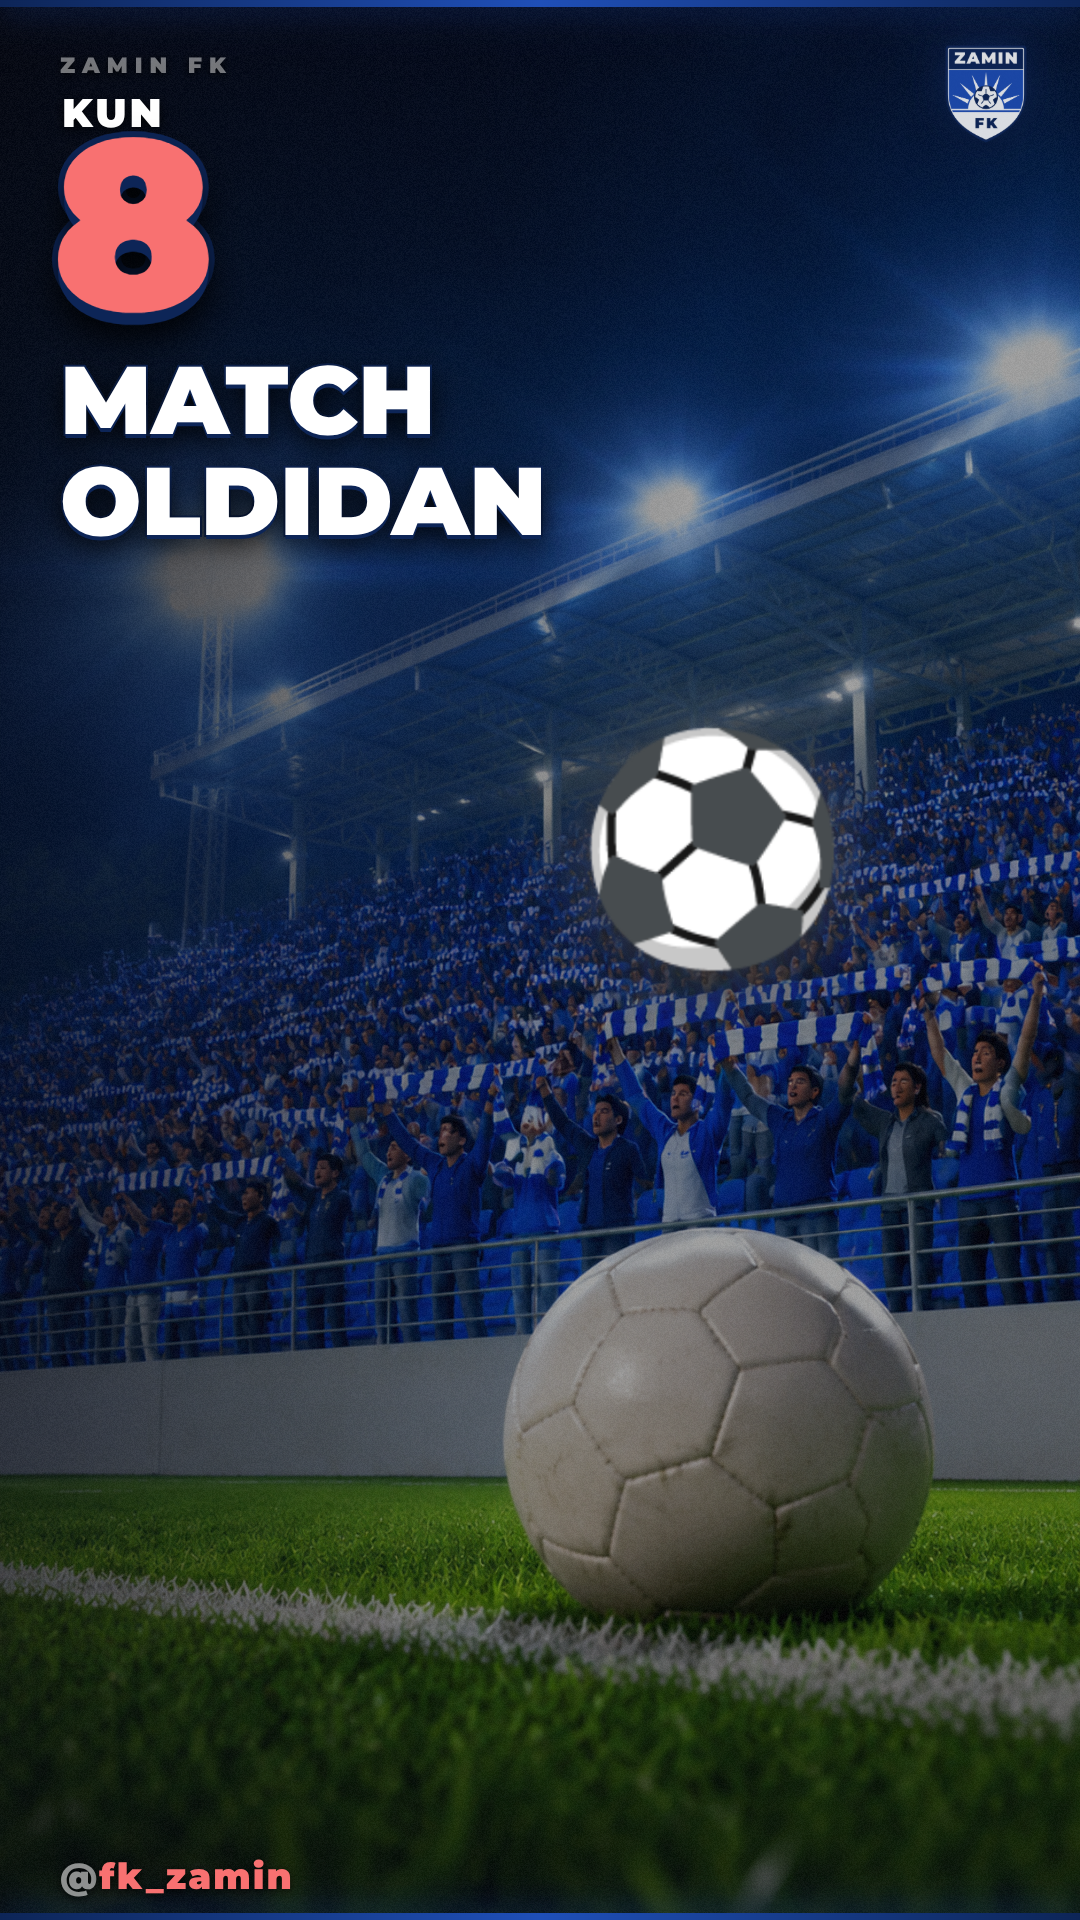
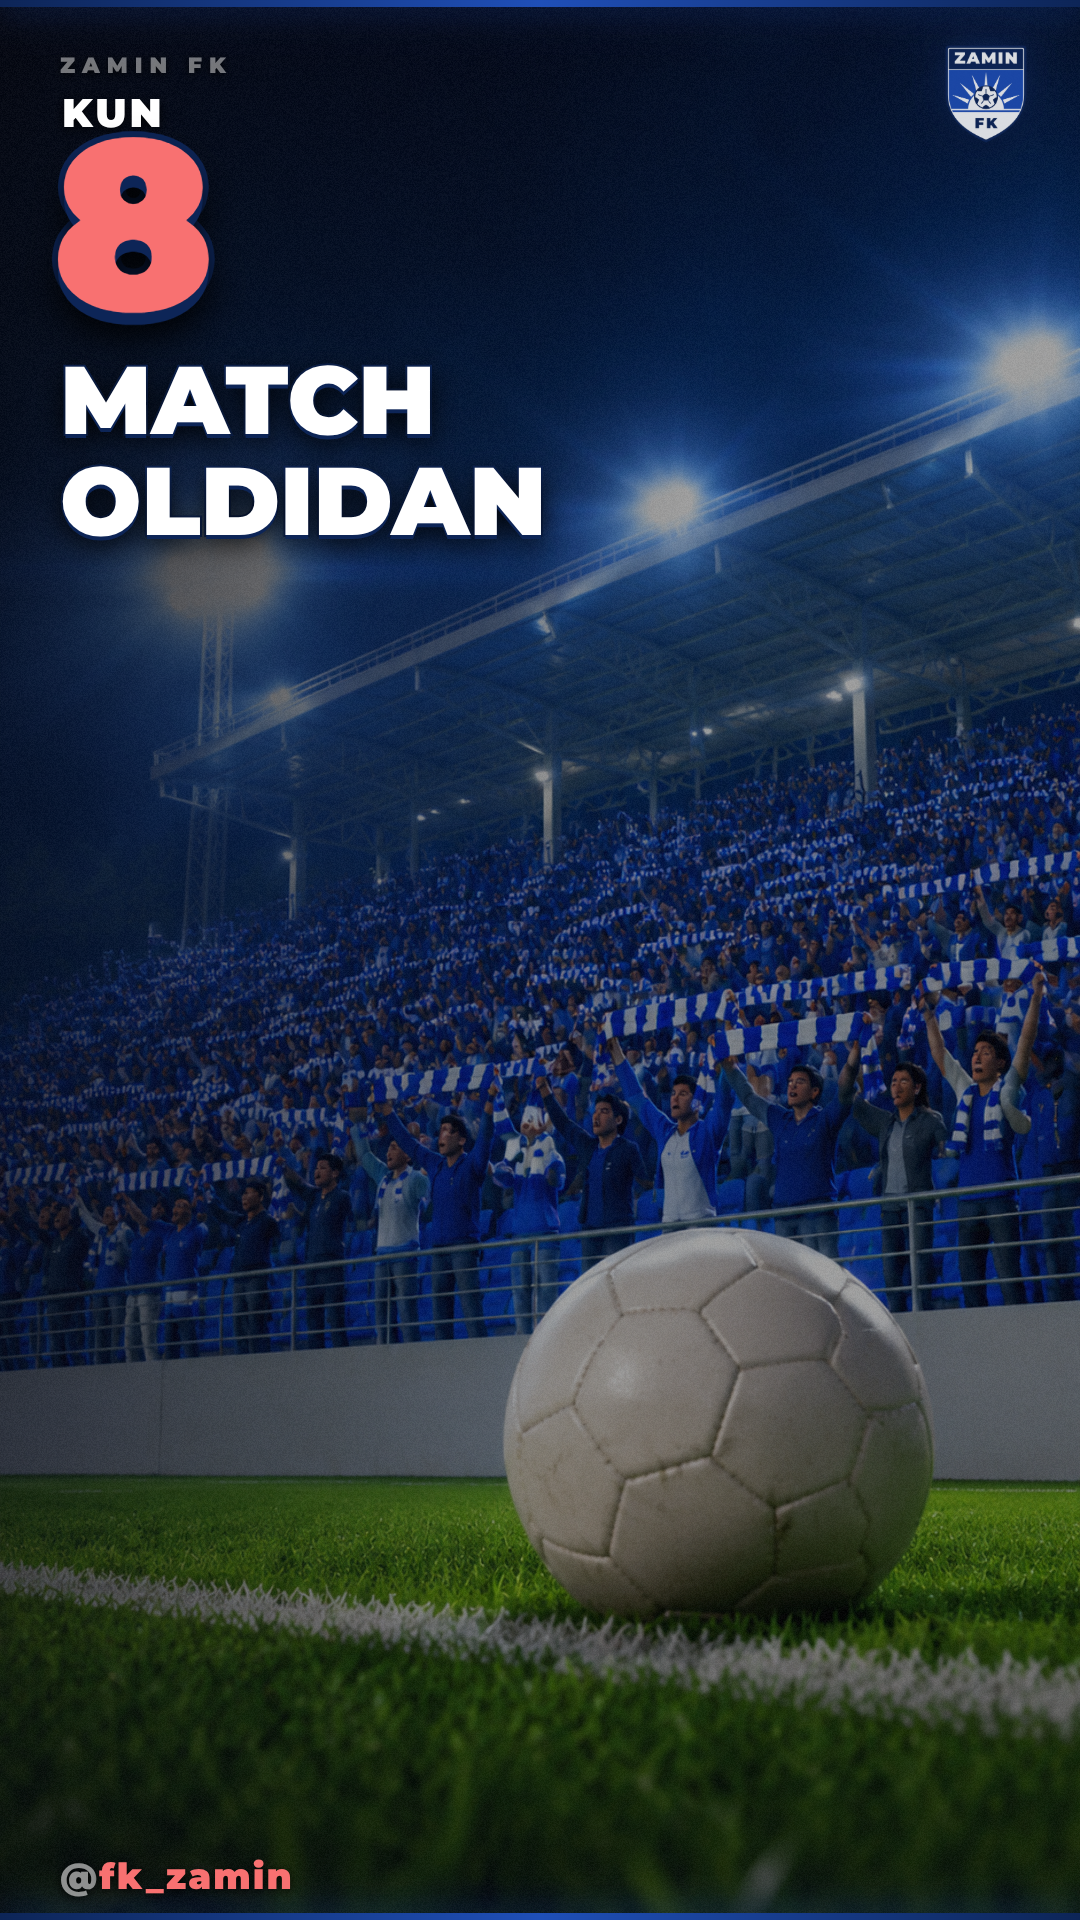
covers: revert to clean saveo.house format (approved design)
Remove center elements — approved version is big number top-left,
full-bleed stadium, label + title only, no emoji/boards in center.

Claude-Session: https://claude.ai/code/session_017oAb5JybVNWND8Xih9kaCy

Changed region(s): [[0.5194, 0.375, 0.7944, 0.5312]]

diff --git a/ZAMIN_FK/covers/render_covers.js b/ZAMIN_FK/covers/render_covers.js
@@ -1,4 +1,5 @@
 // node render_covers.js  →  exports/cover_01.png … cover_19.png
+// Layout: saveo.house format — full-bleed scene, huge episode# top-left, title below
 const {chromium}=require("playwright"),fs=require("fs");
 const HERE=__dirname,EXP=HERE+"/exports";
 const ASSETS=HERE+"/../06_Episode_06/assets";
@@ -13,138 +14,6 @@ const K={
  13:"K4a_father_son",14:"K7_pitch",15:"K4b_friends",16:"K1_empty",
  17:"K4a_father_son",18:"K2_dark", 19:"K3_full"
 };
-
-// Center element: thematic icon per cover
-// cy = vertical center % of frame (0-100)
-function centerEl(c){
-  const style=(emoji,size=220,cy=46,glow="rgba(255,210,63,.55)",cx=50)=>
-    `<div style="position:absolute;top:${cy}%;left:${cx}%;
-      transform:translate(-50%,-50%);font-size:${size}px;line-height:1;
-      filter:drop-shadow(0 0 44px ${glow}) drop-shadow(0 12px 24px rgba(0,0,0,.85))">${emoji}</div>`;
-
-  // CSS tactical board (green mini-pitch with player dots)
-  const tacticBoard=`
-<div style="position:absolute;top:44%;left:68%;transform:translate(-50%,-50%);
-  width:280px;height:380px;background:rgba(14,120,52,.88);border-radius:16px;
-  border:3px solid rgba(255,210,63,.6);box-shadow:0 0 48px rgba(0,0,0,.8);overflow:hidden">
-  <!-- pitch lines -->
-  <div style="position:absolute;top:50%;left:0;right:0;height:2px;background:rgba(255,255,255,.25)"></div>
-  <div style="position:absolute;top:50%;left:50%;transform:translateX(-50%);
-    width:70px;height:70px;border-radius:50%;border:2px solid rgba(255,255,255,.2)"></div>
-  <!-- 4-3-3 formation dots: GK, 4 DEF, 3 MID, 3 FWD -->
-  <!-- GK -->
-  <div style="position:absolute;bottom:14px;left:50%;transform:translateX(-50%);
-    width:22px;height:22px;border-radius:50%;background:#FFD23F;border:2px solid #fff"></div>
-  <!-- DEF -->
-  ${[18,36,52,70].map(l=>`<div style="position:absolute;bottom:80px;left:${l}%;
-    transform:translateX(-50%);width:20px;height:20px;border-radius:50%;
-    background:#fff;border:2px solid #FFD23F"></div>`).join("")}
-  <!-- MID -->
-  ${[26,50,74].map(l=>`<div style="position:absolute;bottom:168px;left:${l}%;
-    transform:translateX(-50%);width:20px;height:20px;border-radius:50%;
-    background:#fff;border:2px solid #FFD23F"></div>`).join("")}
-  <!-- FWD -->
-  ${[22,50,78].map(l=>`<div style="position:absolute;bottom:252px;left:${l}%;
-    transform:translateX(-50%);width:20px;height:20px;border-radius:50%;
-    background:#FFD23F;border:2px solid #fff"></div>`).join("")}
-</div>`;
-
-  // CSS scoreboard
-  const score22=`
-<div style="position:absolute;top:42%;left:66%;transform:translate(-50%,-50%);
-  display:flex;align-items:center;gap:14px">
-  <div style="font-family:MZ,sans-serif;font-size:200px;font-weight:900;color:#fff;
-    text-shadow:0 8px 0 #0D2557,0 16px 40px rgba(0,0,0,.95);
-    -webkit-text-stroke:8px #0D2557;paint-order:stroke fill">2</div>
-  <div style="font-family:MZ,sans-serif;font-size:160px;font-weight:900;color:#F87171;
-    text-shadow:0 8px 0 #0D2557,0 16px 40px rgba(0,0,0,.9)">:</div>
-  <div style="font-family:MZ,sans-serif;font-size:200px;font-weight:900;color:#fff;
-    text-shadow:0 8px 0 #0D2557,0 16px 40px rgba(0,0,0,.95);
-    -webkit-text-stroke:8px #0D2557;paint-order:stroke fill">2</div>
-</div>`;
-
-  // mini XI formation grid (cover 19)
-  const miniXI=`
-<div style="position:absolute;top:40%;left:68%;transform:translate(-50%,-50%);
-  width:260px;height:380px;background:rgba(14,120,52,.85);border-radius:14px;
-  border:3px solid rgba(255,210,63,.5);box-shadow:0 0 48px rgba(0,0,0,.8);padding:12px 8px">
-  <div style="font-family:MZ,sans-serif;font-size:18px;color:#FFD23F;font-weight:900;
-    text-align:center;letter-spacing:3px;margin-bottom:8px">MUXLISLAR A</div>
-  ${[["ST"],["RW","CAM","LW"],["CDM","CM"],["RB","CB","CB","LB"],["GK"]].map((row,ri)=>`
-  <div style="display:flex;justify-content:center;gap:6px;margin:${ri===0?8:6}px 0">
-    ${row.map(p=>`<div style="width:42px;text-align:center">
-      <div style="width:28px;height:28px;border-radius:50%;background:#FFD23F;
-        border:2px solid #fff;margin:0 auto 2px"></div>
-      <div style="font-family:MZ,sans-serif;font-size:11px;color:rgba(255,255,255,.8);
-        font-weight:700">${p}</div>
-    </div>`).join("")}
-  </div>`).join("")}
-</div>`;
-
-  // CSS changing room board (cover 17 coach)
-  const coachBoard=`
-<div style="position:absolute;top:42%;left:68%;transform:translate(-50%,-50%);
-  width:300px;height:280px;background:rgba(10,20,60,.9);border-radius:14px;
-  border:4px solid #FFD23F;box-shadow:0 0 48px rgba(255,210,63,.3),0 0 80px rgba(0,0,0,.8);
-  padding:20px 24px">
-  <div style="font-family:MZ,sans-serif;font-size:18px;color:#9fb6ff;font-weight:900;
-    letter-spacing:4px;margin-bottom:10px">MURABBIY</div>
-  <div style="font-family:MZ,sans-serif;font-size:28px;color:#FFD23F;font-weight:900;
-    margin-bottom:16px">@hayitboyev.76</div>
-  ${["HIMOYA: 4-1","O'RTA: 3","HUJUM: 3","TAKTIKA: 4-3-3"].map(l=>`
-  <div style="font-family:MZ,sans-serif;font-size:20px;color:rgba(255,255,255,.75);
-    font-weight:700;margin:6px 0;border-left:3px solid #FFD23F;padding-left:10px">${l}</div>`).join("")}
-</div>`;
-
-  // goat special: large, center-right, white/ethereal glow (different from other icons)
-  const goatSpecial=`
-<div style="position:absolute;top:44%;left:66%;transform:translate(-50%,-50%);
-  font-size:300px;line-height:1;
-  filter:drop-shadow(0 0 80px rgba(255,255,255,.6)) drop-shadow(0 0 160px rgba(255,210,63,.35))
-         drop-shadow(0 16px 32px rgba(0,0,0,.9))">🐐</div>
-<div style="position:absolute;top:66%;left:66%;transform:translate(-50%,-50%);
-  font-family:MZ,sans-serif;font-size:36px;font-weight:900;color:#FFD23F;
-  letter-spacing:6px;text-shadow:0 4px 0 #0D2557,0 8px 20px rgba(0,0,0,.9);
-  -webkit-text-stroke:2px #0D2557;paint-order:stroke fill">ZAMIN FK MASKOTI</div>`;
-
-  // progress bar (cover 12)
-  const progress=`
-<div style="position:absolute;top:44%;left:66%;transform:translate(-50%,-50%);
-  width:300px">
-  <div style="font-family:MZ,sans-serif;font-size:88px;font-weight:900;color:#FFD23F;
-    text-align:center;text-shadow:0 6px 0 #0D2557,0 10px 30px rgba(0,0,0,.9);
-    -webkit-text-stroke:5px #0D2557;paint-order:stroke fill">305</div>
-  <div style="height:12px;background:rgba(255,255,255,.15);border-radius:6px;margin:8px 0">
-    <div style="height:100%;width:61%;background:#FFD23F;border-radius:6px;
-      box-shadow:0 0 20px rgba(255,210,63,.6)"></div>
-  </div>
-  <div style="font-family:MZ,sans-serif;font-size:26px;color:rgba(255,255,255,.65);
-    font-weight:900;text-align:center;letter-spacing:2px">/ 500 MUXLIS</div>
-</div>`;
-
-  switch(c.n){
-    case 1:  return style("🏗",210,44,"rgba(255,180,0,.5)");
-    case 2:  return style("🗳",200,44,"rgba(255,180,0,.5)",66);
-    case 3:  return style("🏆",220,44,"rgba(255,215,0,.6)",66);
-    case 4:  return goatSpecial;
-    case 5:  return style("🚌",200,44,"rgba(100,160,255,.5)",66);
-    case 6:  return style("⚡",220,44,"rgba(168,85,247,.6)",66);
-    case 7:  return style("🌟",210,44,"rgba(52,211,153,.5)",66);
-    case 8:  return style("🎟",200,44,"rgba(100,160,255,.4)",66);
-    case 9:  return style("⚽",220,44,"rgba(255,255,255,.3)",66);
-    case 10: return style("🏙",200,44,"rgba(255,215,0,.4)",66);
-    case 11: return score22;
-    case 12: return progress;
-    case 13: return style("🪑",210,44,"rgba(168,85,247,.5)",66);
-    case 14: return tacticBoard;
-    case 15: return style("👥",210,44,"rgba(255,107,157,.4)",66);
-    case 16: return style("💡",220,44,"rgba(255,215,0,.55)",66);
-    case 17: return coachBoard;
-    case 18: return style("🔥",280,42,"rgba(255,69,0,.5)",66);
-    case 19: return miniXI;
-  }
-  return "";
-}
 
 const COVERS=[
   {n:1,  label:"KUN",   num:"1",    title:"NOLDAN\nBOSHLANDI",   accent:"#FF6B9D", bright:0.72},
@@ -181,7 +50,6 @@ function titleSize(title){
 function makeHtml(c){
   const bg=`${ASSETS}/${K[c.n]}.png`;
   const ns=numSize(c.num), ts=titleSize(c.title);
-  const numStroke=Math.round(ns*0.05);
   const numTop=c.label?118:88;
   const titleTop=numTop+Math.round(ns*0.9)+16;
 
@@ -195,17 +63,14 @@ body{width:1080px;height:1920px;overflow:hidden;background:#02040c;font-family:M
 <img src="${bg}" style="position:absolute;inset:0;width:1080px;height:1920px;
   object-fit:cover;filter:brightness(${c.bright}) saturate(1.25) contrast(1.06)">
 
-<!-- left vignette for text legibility -->
 <div style="position:absolute;inset:0;background:linear-gradient(100deg,
   rgba(2,4,12,.80) 0%,rgba(2,4,12,.30) 32%,rgba(2,4,12,.0) 55%)"></div>
 
-<!-- bottom fade -->
 <div style="position:absolute;bottom:0;left:0;right:0;height:360px;
   background:linear-gradient(0deg,rgba(2,4,12,.55) 0%,transparent 100%)"></div>
 
 <canvas id="gr" width="1080" height="1920" style="position:absolute;inset:0;opacity:0.045;pointer-events:none"></canvas>
 
-<!-- blue accent bars -->
 <div style="position:absolute;top:0;left:0;right:0;height:7px;
   background:linear-gradient(90deg,#0D2557,#1F4FB8,#0D2557);
   box-shadow:0 2px 32px rgba(31,79,184,.75)"></div>
@@ -213,38 +78,29 @@ body{width:1080px;height:1920px;overflow:hidden;background:#02040c;font-family:M
   background:linear-gradient(90deg,#0D2557,#1F4FB8,#0D2557);
   box-shadow:0 -2px 32px rgba(31,79,184,.75)"></div>
 
-<!-- TOP-LEFT: series slug -->
 <div style="position:absolute;top:52px;left:60px;
   font-size:22px;font-weight:900;color:rgba(255,255,255,.45);letter-spacing:7px;
   text-shadow:0 2px 8px rgba(0,0,0,.8)">ZAMIN FK</div>
 
-<!-- label -->
 ${c.label?`<div style="position:absolute;top:88px;left:62px;
   font-size:40px;font-weight:900;color:#fff;letter-spacing:3px;
   text-shadow:0 3px 12px rgba(0,0,0,.9)">${c.label}</div>`:""}
 
-<!-- BIG NUMBER -->
 <div style="position:absolute;top:${numTop}px;left:52px;
   font-size:${ns}px;font-weight:900;line-height:0.88;
   color:${c.accent};
   text-shadow:0 ${Math.round(ns*0.05)}px 0 #0D2557,0 ${Math.round(ns*0.1)}px 36px rgba(0,0,0,.95);
-  -webkit-text-stroke:${numStroke}px #0D2557;paint-order:stroke fill">${c.num}</div>
+  -webkit-text-stroke:${Math.round(ns*0.05)}px #0D2557;paint-order:stroke fill">${c.num}</div>
 
-<!-- TITLE -->
 <div style="position:absolute;top:${titleTop}px;left:60px;
   font-size:${ts}px;font-weight:900;line-height:1.05;color:#fff;
   text-shadow:0 4px 0 #0D2557,0 8px 28px rgba(0,0,0,.9);
   -webkit-text-stroke:${Math.round(ts*0.04)}px #0D2557;paint-order:stroke fill">${c.title.replace(/\n/g,"<br>")}</div>
 
-<!-- CENTER ELEMENT -->
-${centerEl(c)}
-
-<!-- TOP-RIGHT: crest -->
 <img src="${CREST}" style="position:absolute;top:44px;right:52px;
   height:100px;opacity:0.85;
   filter:drop-shadow(0 0 16px rgba(31,79,184,.5)) drop-shadow(0 4px 10px rgba(0,0,0,.8))">
 
-<!-- BOTTOM: handle -->
 <div style="position:absolute;bottom:22px;left:60px;
   font-size:36px;color:rgba(255,255,255,.55);font-weight:900;letter-spacing:2px;
   text-shadow:0 2px 8px rgba(0,0,0,.8)">@<span style="color:${c.accent}">fk_zamin</span></div>
